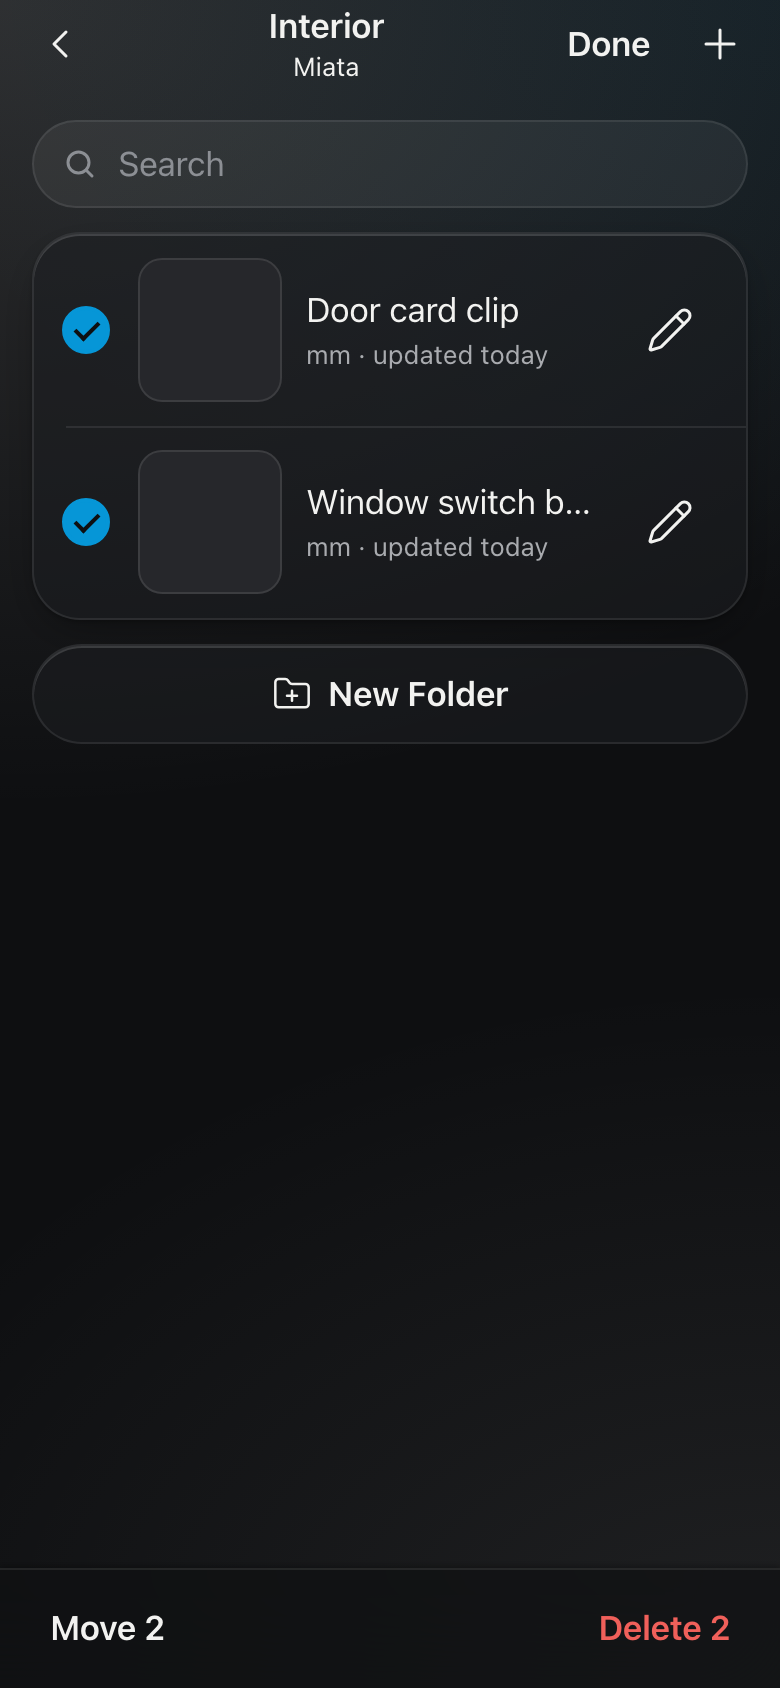
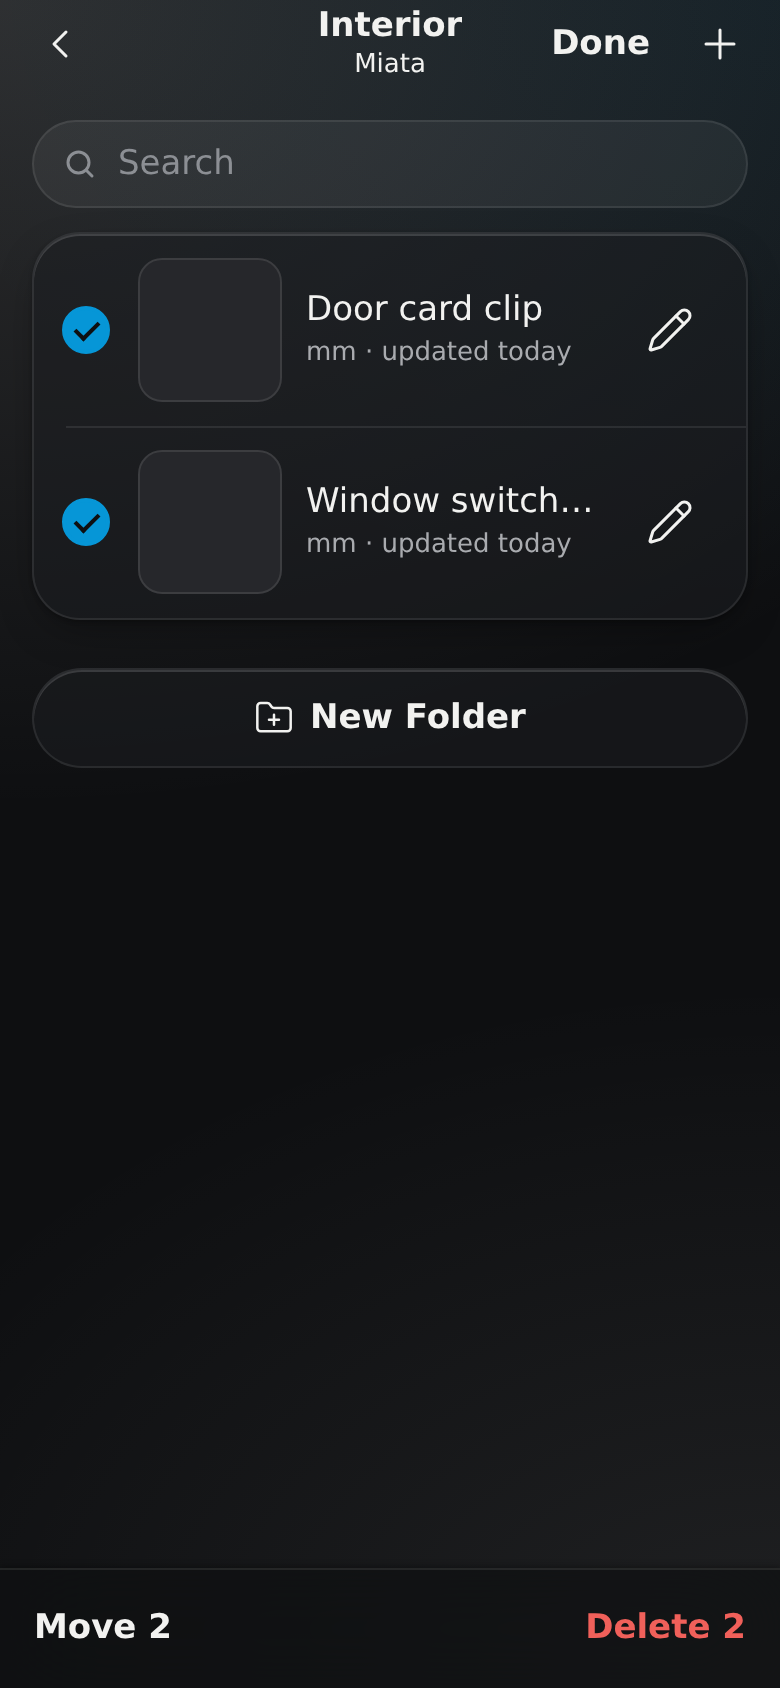
Polish: layout consistency, 16 of 22 audit findings (docs/design/layout-audit-2026-09-24.md)
Measured at 390 x 844 before -> after; CSS and markup only, no Store or
features.json change, every test id kept.
- #1 nav title centred: equal side columns (folder -29.9 -> 0 px, folder Edit
  -35.7 -> 0, picker +7 -> 0, Part -5.9 -> 0). A title too wide to centre
  beside the side controls sits off centre, then ellipsizes (UIKit's rule).
- #2 #3 Part: the export status and the timer are one centred Footnote stack
  under Export (12 / 4 px); the timer is the system face, tabular figures.
- #4 Annotate tool strip: Snap left; "2 dims" and "1.00x" right, the units
  outside the dimension-count / zoom test ids (e2e reads bare numbers).
- #6 Save | Clear one row of 50 px halves (Clear was 78 x 40, below the fold);
  editing = Update | Clear | Delete in thirds, one row, so the list under it
  never moves (a separate Delete row broke annotate.spec.js:752).
- #5 #13 From library, Export CSV, Re-measure: full-width block capsules.
- #8 label -> control 8 px; #9 Parts list -> New Folder 24, empty line ->
  button 12; #10 the picker's New folder field in a card; #12 camera note
  centred; #14 toolbar text 17 px from the edges like the bar; #15 name chips
  40 px / 13 px; #16 panel edges on the photo's 16 / 374; #19 Debug's user
  agent as its group footer; #20 panel and photo tops aligned side by side.
- Settings: "Readings come from a connected caliper" (Bluetooth calipers type
  readings the way the wedge dongle did); shell.spec.js follows the copy.
[…]

diff --git a/src/app/pages/Annotate.css b/src/app/pages/Annotate.css
@@ -109,10 +109,16 @@
 .annotate-tools {
   display: flex;
   align-items: center;
-  justify-content: flex-end;
+  justify-content: space-between; /* layout polish (audit #4): Snap left, the rest right */
   gap: var(--cc-space-2);
   min-height: var(--cc-tap-min);
   background: transparent;
+}
+
+.annotate-tools-end {
+  display: flex;
+  align-items: center;
+  gap: var(--cc-space-2);
 }
 
 /* The panel supplies the one background; the strip's pill children stay
@@ -122,17 +128,32 @@
   border-color: transparent;
 }
 
-/* The count reads as a compact mono figure, not a full-size hint pill. */
-.annotate-tools [data-testid="dimension-count"] {
-  min-width: 20px;
-  padding: 0 var(--cc-space-2);
-  justify-content: center;
+/* The count reads as a compact mono Footnote label with its unit — "2 dims"
+   (layout polish, audit #4; it was a bare "2"). The figure alone is the
+   `dimension-count` test id; the unit is a text node beside it. */
+.annotate-count {
+  padding: 0 var(--cc-space-1);
   font: 500 var(--cc-size-footnote) / var(--cc-leading-footnote) var(--cc-font-mono);
   font-variant-numeric: tabular-nums;
+  color: var(--cc-text);
+  white-space: nowrap;
+}
+
+/* "1.00×": the readout (`zoom`, text stays the bare number) and its unit
+   as one figure — no gap between them, the pill's padding on the outside. */
+.annotate-zoom {
+  display: inline-flex;
+  align-items: center;
 }
 
 .annotate-tools [data-testid="zoom"] {
-  padding: 0 var(--cc-space-1);
+  padding: 0 0 0 var(--cc-space-1);
+}
+
+.annotate-zoom-unit {
+  padding-right: var(--cc-space-1);
+  font: 500 var(--cc-size-footnote) / var(--cc-leading-footnote) var(--cc-font-mono);
+  color: var(--cc-live);
 }
 
 /* SPEC §8a A5: the Snap toggle is a pill that is a real button, inside the
@@ -171,6 +192,11 @@
 .annotate .panel {
   flex: 1 0 auto;
   gap: var(--cc-space-4);
+  /* Layout polish (audit #16): no side strokes on the stacked sheet (it
+     runs edge to edge, so they only sat at the screen edges), so its
+     controls start at the page margin and line up with the photo — 16 /
+     374 at 390, not 17 / 373. The side-by-side rule below sets its own. */
+  border-inline-width: 0;
   padding: var(--cc-space-4) calc(var(--cc-page-x) + env(safe-area-inset-right))
     calc(var(--cc-space-4) + env(safe-area-inset-bottom))
     calc(var(--cc-page-x) + env(safe-area-inset-left));
@@ -229,6 +255,14 @@
   gap: var(--cc-space-2);
 }
 
+/* The name-suggestion chips (DESIGN.md §11.2): 40 px tall, 13 px mono —
+   layout polish, audit #15 (the shared `.chip` is 36 px / 12 px; only
+   these change). */
+.annotate-name .chip {
+  min-height: 40px;
+  font: 500 var(--cc-size-footnote) / var(--cc-leading-footnote) var(--cc-font-mono);
+}
+
 /* Kind + tolerance share a row. Tolerance narrowed 124 → 104 px (design
    review 2026-09-17 A2: "± 0.10 mm" needs ≈ 96 px) so the segmented control
    gets enough width for Ui.Segmented's base metrics (12 px padding, 4 px
@@ -266,23 +300,18 @@
 }
 
 /* ── Actions ───────────────────────────────────────────────────────── */
+/* Layout polish (audit #6): Save | Clear is the shared `.btn-row` of equal
+   50 px halves, primary left; while a saved dimension is being edited the
+   same row holds Update | Clear | Delete in equal thirds, so its height
+   never changes with the selection. The capsules take 16 px side padding
+   (the shared one is 24) so "Save dimension" fits a half on a 360 px phone. */
 .annotate-actions {
   display: flex;
   flex-direction: column;
-  gap: var(--cc-space-2);
 }
 
-.annotate-actions-row {
-  display: flex;
-  justify-content: space-between;
-  gap: var(--cc-space-2);
-}
-
-/* Delete is the small red capsule of §6, next to the small Clear. */
-.annotate-actions-row .btn-danger {
-  min-height: 40px;
-  padding: var(--cc-space-1) var(--cc-space-4);
-  font: 600 var(--cc-size-subhead) / var(--cc-leading-subhead) var(--cc-font-ui);
+.annotate-actions .btn-row > .btn {
+  padding-inline: var(--cc-space-4);
 }
 
 /* ── Dimension list (SPEC §8a A9) ──────────────────────────────────── */
@@ -457,6 +486,10 @@
     overflow-y: auto;
     overscroll-behavior: contain;
     padding-left: var(--cc-page-x);
+    /* Layout polish (audit #20): the top padding is the page margin, so
+       the tools strip starts level with the photo's top edge (it was 16
+       below the bar against the photo's 24). */
+    padding-top: var(--cc-page-x);
     border-width: 0 0 0 1px;
     border-radius: 0;
     box-shadow: none;

diff --git a/src/global.css b/src/global.css
@@ -165,7 +165,14 @@ a:focus-visible {
   top: 0;
   z-index: 10;
   display: grid;
-  grid-template-columns: minmax(var(--cc-tap-min), auto) minmax(0, 1fr) minmax(var(--cc-tap-min), auto);
+  /* Layout polish 2026-09-24 (audit #1): the two side columns share the
+     free space equally (each at least its own content, which is at least
+     the 44 px tap floor below), so the title column sits on the bar's
+     centre line whatever the leading and trailing widths — it was 30 px
+     left on a folder, 36 in Edit. The title column is only as wide as the
+     title; when the title is longer than the space left between the sides
+     it takes all of it and ellipsizes (UIKit's fallback, off-centre). */
+  grid-template-columns: minmax(max-content, 1fr) minmax(0, max-content) minmax(max-content, 1fr);
   grid-template-rows: minmax(var(--cc-tap-min), auto);
   align-items: center;
   padding-top: env(safe-area-inset-top);
@@ -274,8 +281,12 @@ a:focus-visible {
   bottom: 0;
   z-index: 10;
   flex: 0 0 auto;
-  padding: var(--cc-space-2) calc(var(--cc-page-x) + env(safe-area-inset-right))
-    calc(var(--cc-space-2) + env(safe-area-inset-bottom)) calc(var(--cc-page-x) + env(safe-area-inset-left));
+  /* Layout polish (audit #14): the same 8 px side floor as the nav bar, so
+     the toolbar's text actions (`.bar-action`, 8 px padding + 1 px border)
+     sit 17 px from the edges like the bar's, not 25. Content that is not a
+     text action (the confirm strip) adds its own inset back. */
+  padding: var(--cc-space-2) calc(var(--cc-space-2) + env(safe-area-inset-right))
+    calc(var(--cc-space-2) + env(safe-area-inset-bottom)) calc(var(--cc-space-2) + env(safe-area-inset-left));
   user-select: none;
   -webkit-user-select: none;
 }
@@ -686,6 +697,7 @@ button[aria-disabled="true"]:active,
   padding: 0 var(--cc-page-x);
   font: var(--cc-text-footnote);
   color: var(--cc-text-2);
+  overflow-wrap: anywhere; /* Debug's user-agent footer has long unbroken tokens */
 }
 
 /* Hairline material (A14 G2): every `.list-group` — Parts groups, search
@@ -865,7 +877,7 @@ button.list-row:focus-visible {
 .field {
   display: flex;
   flex-direction: column;
-  gap: 6px;
+  gap: var(--cc-space-2); /* label → control, §11.1 header → group (was 6, audit #8) */
   min-width: 0;
 }
 
@@ -1914,10 +1926,10 @@ html[data-nav="fade"]::view-transition-new(root) {
      padding expression and no DOM change (review S8, measured at 1440:
      the leading button at x 376 against content at 384, the 24 px glyph
      at 386). `100%` resolves against `.shell`'s content width, so the
-     scrollbar is excluded consistently. Each bar keeps its own compact
-     floor — `space-2` for the bar's icon buttons, `page-x` for the
-     footer's text actions — for the widths where the column is wider
-     than the window (600–712 px). The ambient wash keeps filling the
+     scrollbar is excluded consistently. Both bars keep the compact
+     `space-2` floor (the footer's was `page-x` until the 2026-09-24 layout
+     polish) for the widths where the column is wider than the window
+     (600–712 px). The ambient wash keeps filling the
      frame outside the column, so a wide window is not a black void with
      a strip in it. */
   .shell-topbar {
@@ -1931,13 +1943,15 @@ html[data-nav="fade"]::view-transition-new(root) {
     );
   }
 
+  /* Layout polish (audit #14): the footer's floor is the bar's `space-2`
+     now (it was `page-x`), so the two bars are one expression. */
   .shell-footer {
     padding-left: max(
-      calc(var(--cc-page-x) + env(safe-area-inset-left)),
+      calc(var(--cc-space-2) + env(safe-area-inset-left)),
       calc((100% - var(--col)) / 2 + var(--cc-page-x) - var(--cc-space-2))
     );
     padding-right: max(
-      calc(var(--cc-page-x) + env(safe-area-inset-right)),
+      calc(var(--cc-space-2) + env(safe-area-inset-right)),
       calc((100% - var(--col)) / 2 + var(--cc-page-x) - var(--cc-space-2))
     );
   }

diff --git a/src/app/pages/PartsList.css b/src/app/pages/PartsList.css
@@ -51,8 +51,10 @@
   width: 100%;
 }
 
+/* Layout polish (audit #9): no bottom padding, so the line sits the
+   stack's 12 px above its New part capsule (it was 8 + 12 = 20). */
 .parts-empty {
-  padding: var(--cc-space-3) 0 var(--cc-space-2);
+  padding: var(--cc-space-3) 0 0;
 }
 
 .page-error {
@@ -124,6 +126,14 @@
   display: flex;
   flex-direction: column;
   gap: var(--cc-space-6);
+}
+
+/* Layout polish (audit #9): the list and the capsules under it (New part in
+   a folder, New Folder) are separate sections — 24 px, the page's 12 px
+   stack gap plus this 12. Search → first group stays the stack's 12. */
+.parts-sections + .btn,
+.parts-sections + .folder-picker-new {
+  margin-top: var(--cc-space-3);
 }
 
 /* SPEC §8a A12a — the Folder row and the picker. In the create form the
@@ -346,6 +356,14 @@
 
 .bar-action.edit-toolbar-danger {
   color: var(--cc-error);
+}
+
+/* Layout polish (audit #14): `.shell-footer`'s side padding is the nav
+   bar's 8 px now, sized for the text actions above; the confirm strip's
+   Footnote and Delete / Cancel capsules add 8 back so they stay on the
+   16 px page margin at compact (and on the column edge from medium). */
+.edit-toolbar-confirm {
+  padding-inline: var(--cc-space-2);
 }
 
 /* The inline folder-rename form replaces the section header (A12b): the

diff --git a/src/app/pages/Part.css b/src/app/pages/Part.css
@@ -89,15 +89,20 @@
   font: var(--cc-text-footnote);
 }
 
-/* ── SPEC §8a A17: medium and expanded ────────────────────────────────── */
-/* The Hands-on timer sits under Export: at compact both span the column
-   (left-aligned); from medium the capsule is capped at 400 and centred
-   (global.css §16), so the timer centres with it — the `adaptive-after-*`
-   boards' look. */
-@media (min-width: 600px) {
-  .part-timer {
-    text-align: center;
-  }
+/* Layout polish 2026-09-24 (audit #2, #3): the export status line and the
+   Hands-on timer are one centred Footnote stack under Export at every
+   width — 12 px under the capsule (the `.stack` gap), 4 px between the two
+   lines. The timer is the system UI face (`text-2`), with tabular figures
+   so the running seconds hold still. */
+.part-export-notes {
+  display: flex;
+  flex-direction: column;
+  gap: var(--cc-space-1);
+  text-align: center;
+}
+
+.part-timer {
+  font-variant-numeric: tabular-nums;
 }
 
 /* ── SPEC §8a A17: the expanded two-column Part page ──────────────────── */

diff --git a/src/app/pages/Capture.css b/src/app/pages/Capture.css
@@ -182,10 +182,13 @@
   outline-offset: 2px;
 }
 
+/* Layout polish (audit #12): centred under the centred shutter block, on
+   the page margin (the 4 px side padding is gone). The prominent (camera
+   denied) box keeps its own padding and left-aligned text. */
 .camera-note {
   font: var(--cc-text-footnote);
   color: var(--cc-text-2);
-  padding: 0 var(--cc-space-1);
+  text-align: center;
 }
 
 .camera-note-prominent {
@@ -195,6 +198,7 @@
   border-radius: var(--cc-radius);
   padding: var(--cc-space-2) var(--cc-space-3);
   font-weight: 600;
+  text-align: left;
 }
 
 /* -- recapture card (inline, non-modal; the `.list-group` hairline material) -- */

diff --git a/e2e/specs/shell.spec.js b/e2e/specs/shell.spec.js
@@ -20,7 +20,7 @@ test.describe('app shell', () => {
     await page.getByRole('link', {name: 'Settings'}).click()
     await expect(page).toHaveURL(/#\/settings$/)
     await expect(page.locator('.shell-title')).toHaveText('Settings')
-    await expect(page.getByText('Readings come from a wedge dongle')).toBeVisible()
+    await expect(page.getByText('Readings come from a connected caliper')).toBeVisible()
     await page.getByRole('button', {name: 'Back'}).click()
     await expect(page).toHaveURL(/#\/?$/)
     await expect(page.locator('.shell-title')).toHaveText('Parts')

diff --git a/src/app/pages/Debug.css b/src/app/pages/Debug.css
@@ -33,4 +33,3 @@
 .vp-probe-fixed { bottom: 0; }
 .vp-probe-safe-top { height: 0; padding-top: env(safe-area-inset-top); }
 .vp-probe-safe-bottom { height: 0; padding-top: env(safe-area-inset-bottom); }
-.vp-ua { word-break: break-all; }

diff --git a/docs/testids.md b/docs/testids.md
@@ -269,7 +269,7 @@ stable; add to this list before you rely on a new one.
 ## Settings (`#/settings`)
 - `settings-link` — the gear in the Parts root bar's leading slot (`aria-label="Settings"`), the only way
   in from an installed app
-- `wedge-toggle` — "Readings come from a wedge dongle" checkbox
+- `wedge-toggle` — "Readings come from a connected caliper" checkbox
 - `debug-link` — the Diagnostics row (anchor inside) that opens `#/debug`; Debug's Back returns here
 - `snap-setting-toggle` — "Snap taps to edges" checkbox (SPEC §8a A5; the annotate toolbar's
   `snap-toggle` flips the same `settings.snap`)
